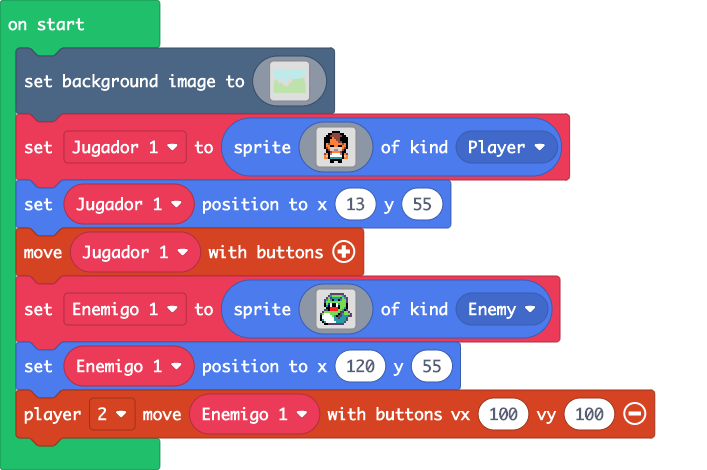
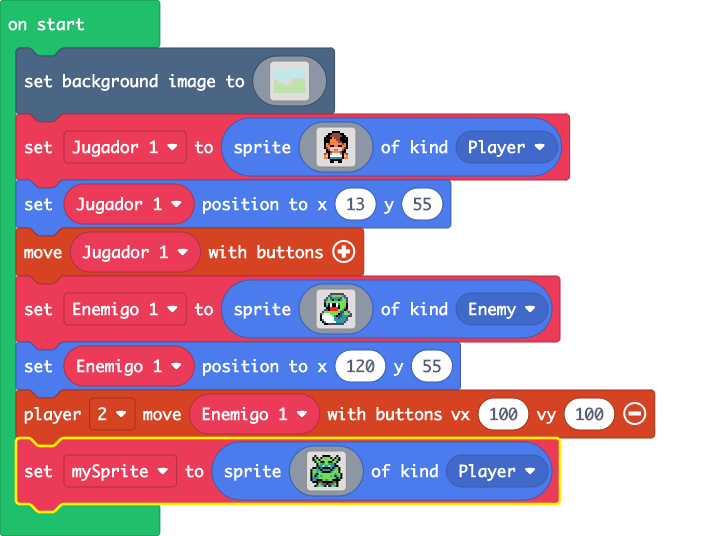
Añadimos sprite custom1

diff --git a/main.ts b/main.ts
@@ -160,3 +160,21 @@ let Enemigo_1 = sprites.create(img`
     `, SpriteKind.Enemy)
 Enemigo_1.setPosition(120, 55)
 controller.player2.moveSprite(Enemigo_1, 100, 100)
+let mySprite = sprites.create(img`
+    . . f . . . f f f f . . . f . . 
+    . f 7 f . f 7 7 7 7 f . f 7 f . 
+    . f 6 7 f 7 7 7 7 7 7 f 7 6 f . 
+    . . f 7 7 f f 7 7 f f 7 7 f . . 
+    . . . f 7 6 6 7 7 6 6 6 f . . . 
+    . . . f 6 6 d 6 6 d 6 6 f f . . 
+    . f f 6 f 6 f f f f 6 f 6 7 f . 
+    f 7 7 6 6 f 6 6 6 6 f 6 7 7 f . 
+    f 7 7 6 7 6 f f f f 6 7 7 7 f . 
+    f 7 6 f 7 7 7 7 7 7 7 7 6 7 7 f 
+    f 7 f 6 7 6 7 7 7 7 6 7 f 6 7 f 
+    f 6 6 6 7 7 7 7 7 7 7 7 6 f 6 f 
+    f 6 6 f f f 7 6 6 7 7 f f f f . 
+    . f f f e e f f f f f e e f . . 
+    . . . f 7 6 e e f e e 6 7 f . . 
+    . . f 6 7 7 6 f . f 6 7 6 f . . 
+    `, SpriteKind.Player)
